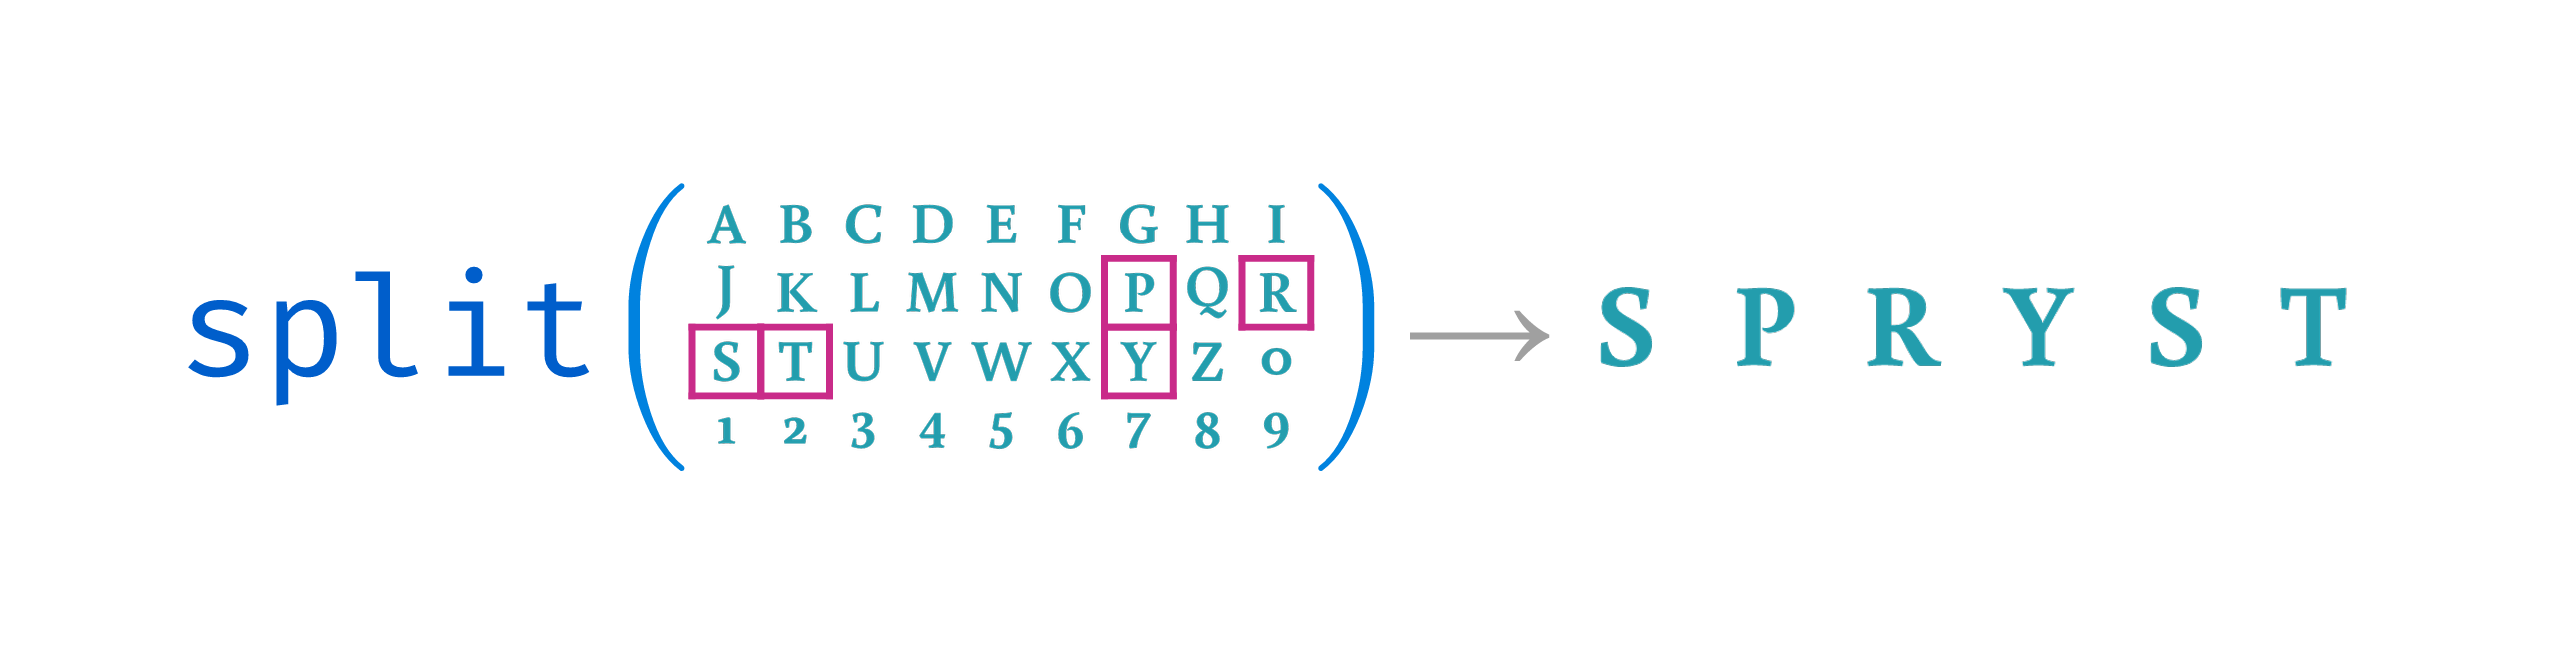
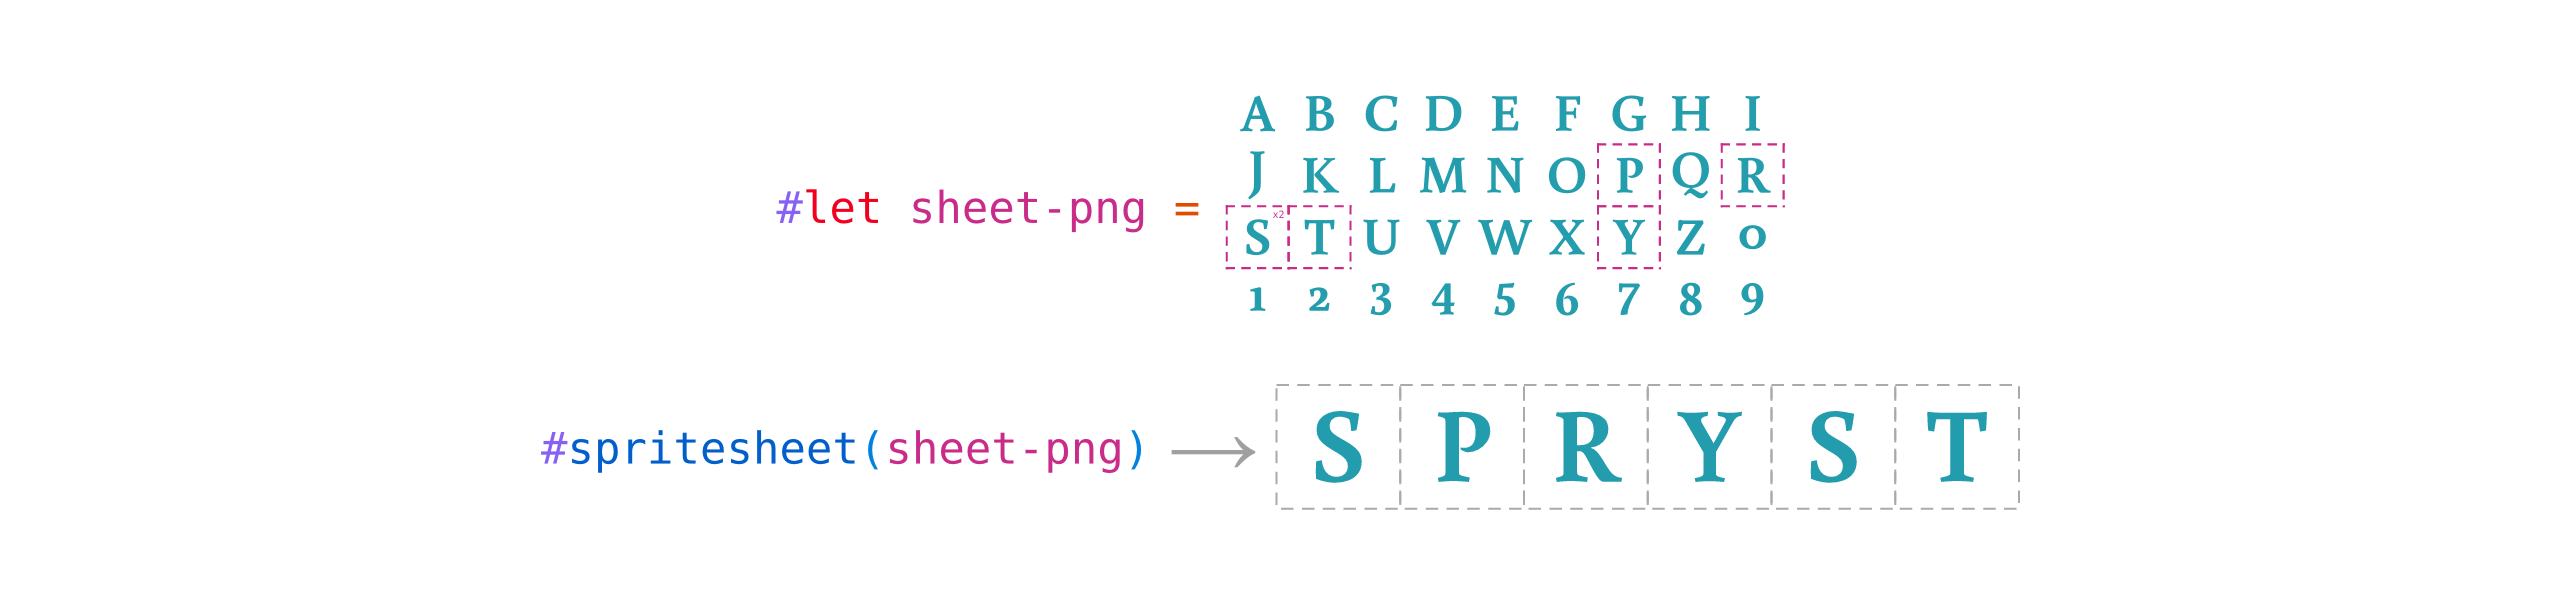
refactor: change public fn `split` to `spritesheet`, change "pixel" usage to "size"

Changed region(s): [[0.0625, 0.1523, 0.75, 0.8223], [0.5625, 0.7005, 0.7812, 0.8223], [0.7812, 0.4264, 0.9375, 0.5787]]

diff --git a/rust/src/spec.rs b/rust/src/spec.rs
@@ -3,7 +3,7 @@
 /// How to carve a sheet into sprites.
 ///
 /// Provide *either* `rows` + `cols` (grid mode) *or* `tile_width` +
-/// `tile_height` (pixel mode). Supplying both pairs, or neither, is an error.
+/// `tile_height` (size mode). Supplying both pairs, or neither, is an error.
 #[derive(Debug, Default, serde::Serialize, serde::Deserialize)]
 pub struct SliceSpec {
     /// Number of sprite rows (grid mode).
@@ -14,11 +14,11 @@ pub struct SliceSpec {
     #[serde(default)]
     pub cols: Option<u32>,
 
-    /// Width of a single sprite in pixels (pixel mode).
+    /// Width of a single sprite in pixels (size mode).
     #[serde(default)]
     pub tile_width: Option<u32>,
 
-    /// Height of a single sprite in pixels (pixel mode).
+    /// Height of a single sprite in pixels (size mode).
     #[serde(default)]
     pub tile_height: Option<u32>,
 

diff --git a/rust/src/lib.rs b/rust/src/lib.rs
@@ -19,7 +19,7 @@
 //!
 //! - **grid mode** — `rows` and `cols`; the tile size is derived and must divide
 //!   the usable area evenly.
-//! - **pixel mode** — `tile_width` and `tile_height`; the row/column counts are
+//! - **size mode** — `tile_width` and `tile_height`; the row/column counts are
 //!   derived as the number of whole tiles that fit.
 //!
 //! Both modes honour an optional `margin` (a border between the sheet edges and
@@ -163,7 +163,7 @@ mod tests {
     }
 
     #[test]
-    fn resolves_pixel_mode_with_floor() {
+    fn resolves_size_mode_with_floor() {
         let bytes = sheet(4, 2, 16); // 64x32
         let img = decode_image(&bytes).unwrap();
         let (w, h) = img.dimensions();

diff --git a/rust/src/layout.rs b/rust/src/layout.rs
@@ -200,7 +200,7 @@ fn tile_size(
     Ok(usable / count)
 }
 
-/// Pixel mode: how many whole tiles of `tile` pixels fit along one axis.
+/// Size mode: how many whole tiles of `tile` pixels fit along one axis.
 fn tile_fit(length: u32, tile: u32, margin: u32, spacing: u32) -> Result<u32, SpriteError> {
     if tile == 0 {
         return Err(SpriteError::ZeroDimension);

diff --git a/README.md b/README.md
@@ -13,7 +13,7 @@ plugin works out the rest, honouring any border (`margin`) and inter-tile gap (`
 
 - **Grid mode** — give `rows` and `cols`; the tile size is derived and must divide the
   usable area evenly.
-- **Pixel mode** — give `tile-width` and `tile-height`; the row/column counts are derived
+- **Size mode** — give `tile-width` and `tile-height`; the row/column counts are derived
   as the number of whole tiles that fit.
 
 ## Usage
@@ -34,7 +34,7 @@ The easiest entry point is the `spryst.typ` wrapper:
 #spryst.sprite-image(spryst.sprite(data, row: 1, col: 1, rows: 4, cols: 4))
 
 // Or slice the whole sheet and lay every sprite out.
-#let sheet = spryst.split(data, rows: 4, cols: 4)
+#let sheet = spryst.spritesheet(data, rows: 4, cols: 4)
 #grid(
   columns: sheet.cols,
   ..sheet.sprites.map(spr => spryst.sprite-image(spr, width: 24pt)),
@@ -48,19 +48,20 @@ Both are optional and default to `0`. Pass a single number to apply it to both a
 the outermost tiles; `spacing` is the gap between adjacent tiles.
 
 ```typ
-#spryst.split(data, rows: 4, cols: 4, margin: 1, spacing: (2, 2))
+#spryst.spritesheet(data, rows: 4, cols: 4, margin: 1, spacing: (2, 2))
 ```
 
-### Known tile size
+### Size mode
 
 ```typ
-#spryst.split(data, tile-width: 16, tile-height: 16)
+#spryst.spritesheet(data, tile-width: 16, tile-height: 16)
 ```
 
 ## Plugin functions (low level)
 
 Each function takes the sheet bytes plus CBOR-encoded arguments and returns a CBOR-encoded
-response. Errors are returned as `Err` and surfaced by Typst as diagnostics.
+response. Errors are returned as `Err` and surfaced by Typst as diagnostics. The
+high-level `spritesheet` wrapper above is a thin convenience layer over `split`.
 
 | Function                        | Arguments                                      | Returns                                                                     |
 | ------------------------------- | ---------------------------------------------- | --------------------------------------------------------------------------- |
@@ -79,7 +80,7 @@ string (decoded directly to Typst `bytes`).
 
 ```sh
 just install   # one-time: wasm targets + wasi-stub
-just build     # builds build/spryst.wasm
+just build     # builds typst/wasm/spryst.wasm
 ```
 
 The Rust logic is unit-tested on the host: